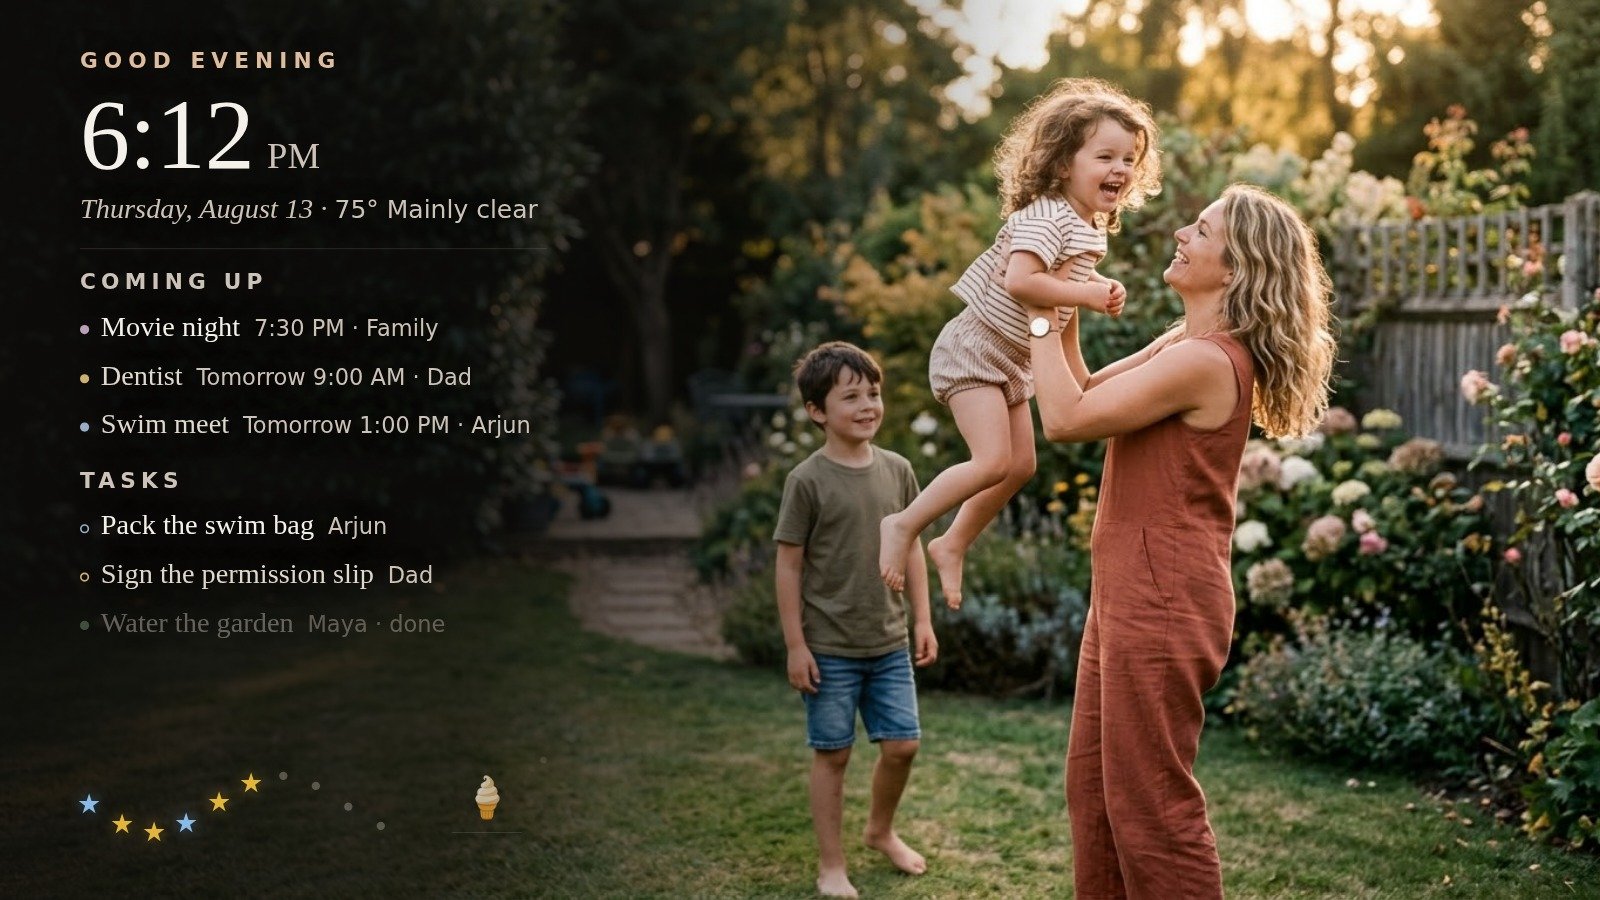
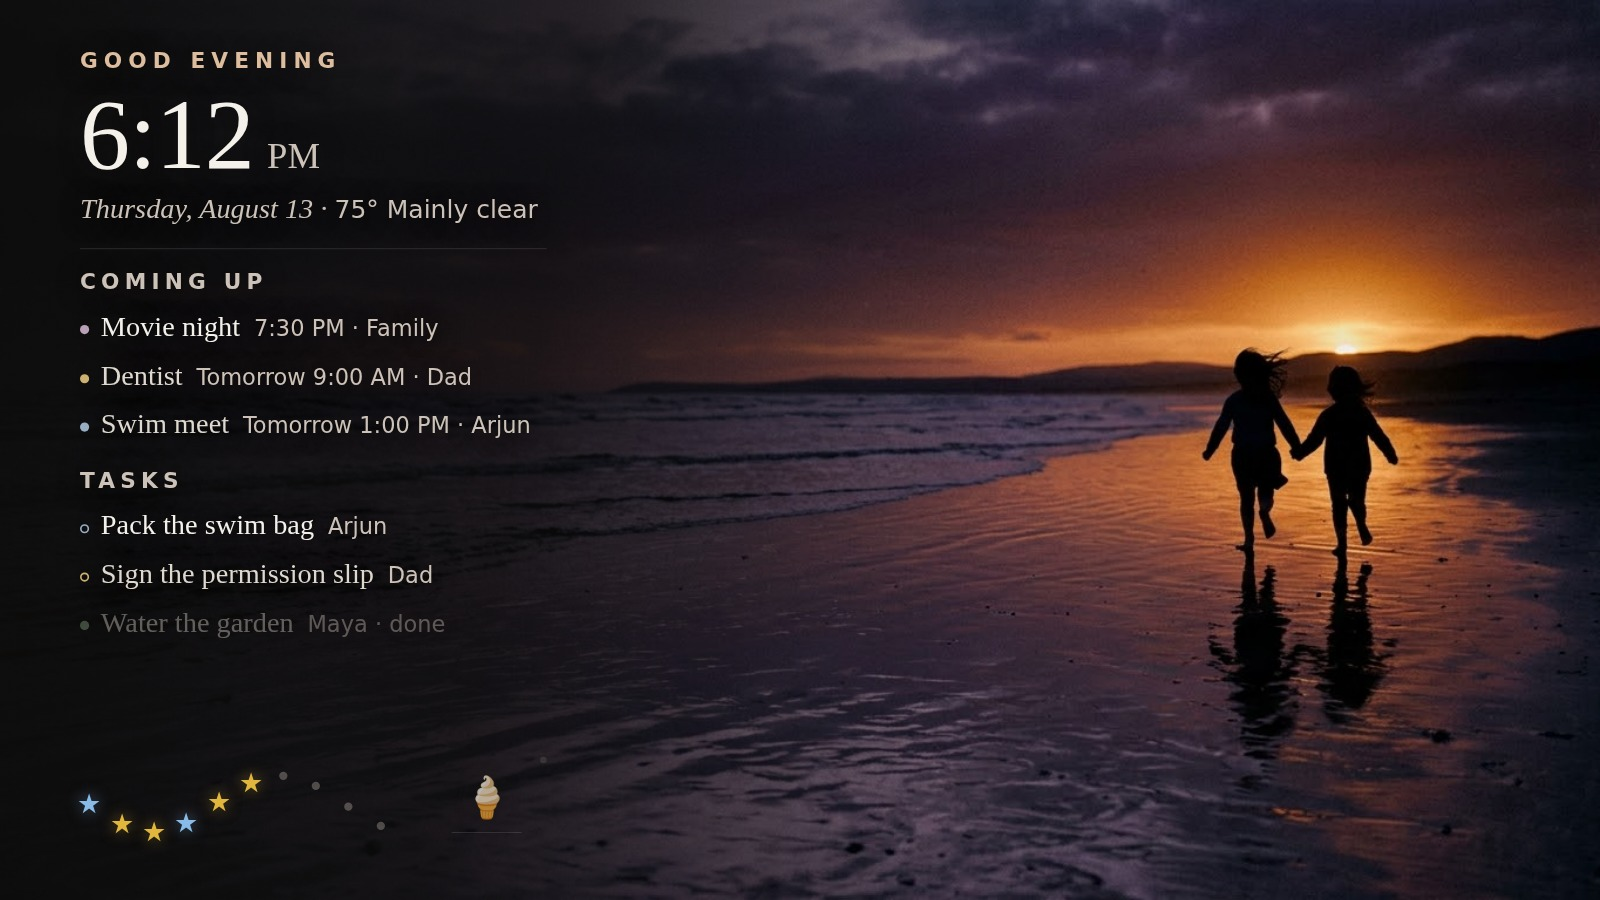
Make the beach shot the Side veil image, everywhere
It was the secondary photo, used once in a README aside. It should have been
the lead: the veil melts into the dark wet sand instead of sitting on top of a
bright lawn, the column has more contrast against it than against anything
else, and inside the share cards — which are a dark room around a dark TV — a
sunset silhouette sits in the frame where the garden's bright green fought it.

So Side veil is the beach now in the README hero, the LinkedIn card, the OG
card and the carousel. The celebration frame follows it, since that is the same
layout with a burst over it and the two should not disagree.

The garden keeps a job: wall-side-veil-dusk.jpg becomes
wall-side-veil-garden.jpg and anchors the README's "Your photos, behind
everything" section — the same wall on a bright, busy image, which now
demonstrates the harder direction. The veil holding its contrast against a
bright photo is the more interesting claim; against a dark one it is easy.

Both photos also remain in the Oat & moss mantelpiece trio.

Claude-Session: https://claude.ai/code/session_01R1kJr9xVJ2DurqdBcMhiG7

diff --git a/docs/social/templates.html b/docs/social/templates.html
@@ -201,7 +201,7 @@
         Every change repaints the TV instantly over Realtime.
       </div>
       <div class="shot pair">
-        <div class="w"><img src="../screenshots/wall-side-veil-dusk.jpg" alt="" /></div>
+        <div class="w"><img src="../screenshots/wall-side-veil.jpg" alt="" /></div>
         <div class="p"><img src="../screenshots/phone.png" alt="" /></div>
       </div>
       <div class="pager">3 / 5</div>

diff --git a/README.md b/README.md
@@ -9,7 +9,7 @@ screen that shows what's happening today — and gets out of the way.
 
 </div>
 
-![The wall at dusk — clock, tonight's events, chores, and a week of stars, over a full-bleed photo](docs/screenshots/wall-side-veil.jpg)
+![The wall at dusk — clock, tonight's events, chores and a week of stars, over a full-bleed photo of two children running on a beach at sunset](docs/screenshots/wall-side-veil.jpg)
 
 <div align="center">
 
@@ -85,11 +85,11 @@ home screen and it behaves like an app.
 
 ## Your photos, behind everything
 
-![The same wall at dusk — two children silhouetted on a beach at sunset, the column of type still fully legible over it](docs/screenshots/wall-side-veil-dusk.jpg)
+![The same wall on a bright garden photo, the column of type still fully legible over it](docs/screenshots/wall-side-veil-garden.jpg)
 
 The same wall, a different evening. Photos uploaded from a phone rotate behind
 the type on a slow Ken Burns drift, and the veil is angled so it holds the
-column's contrast against a dark photo as readily as a bright one.
+column's contrast against a bright, busy photo as readily as the dark one above.
 
 They live in your own Supabase Storage bucket and are served through signed
 URLs — never public, never on anyone else's CDN.
